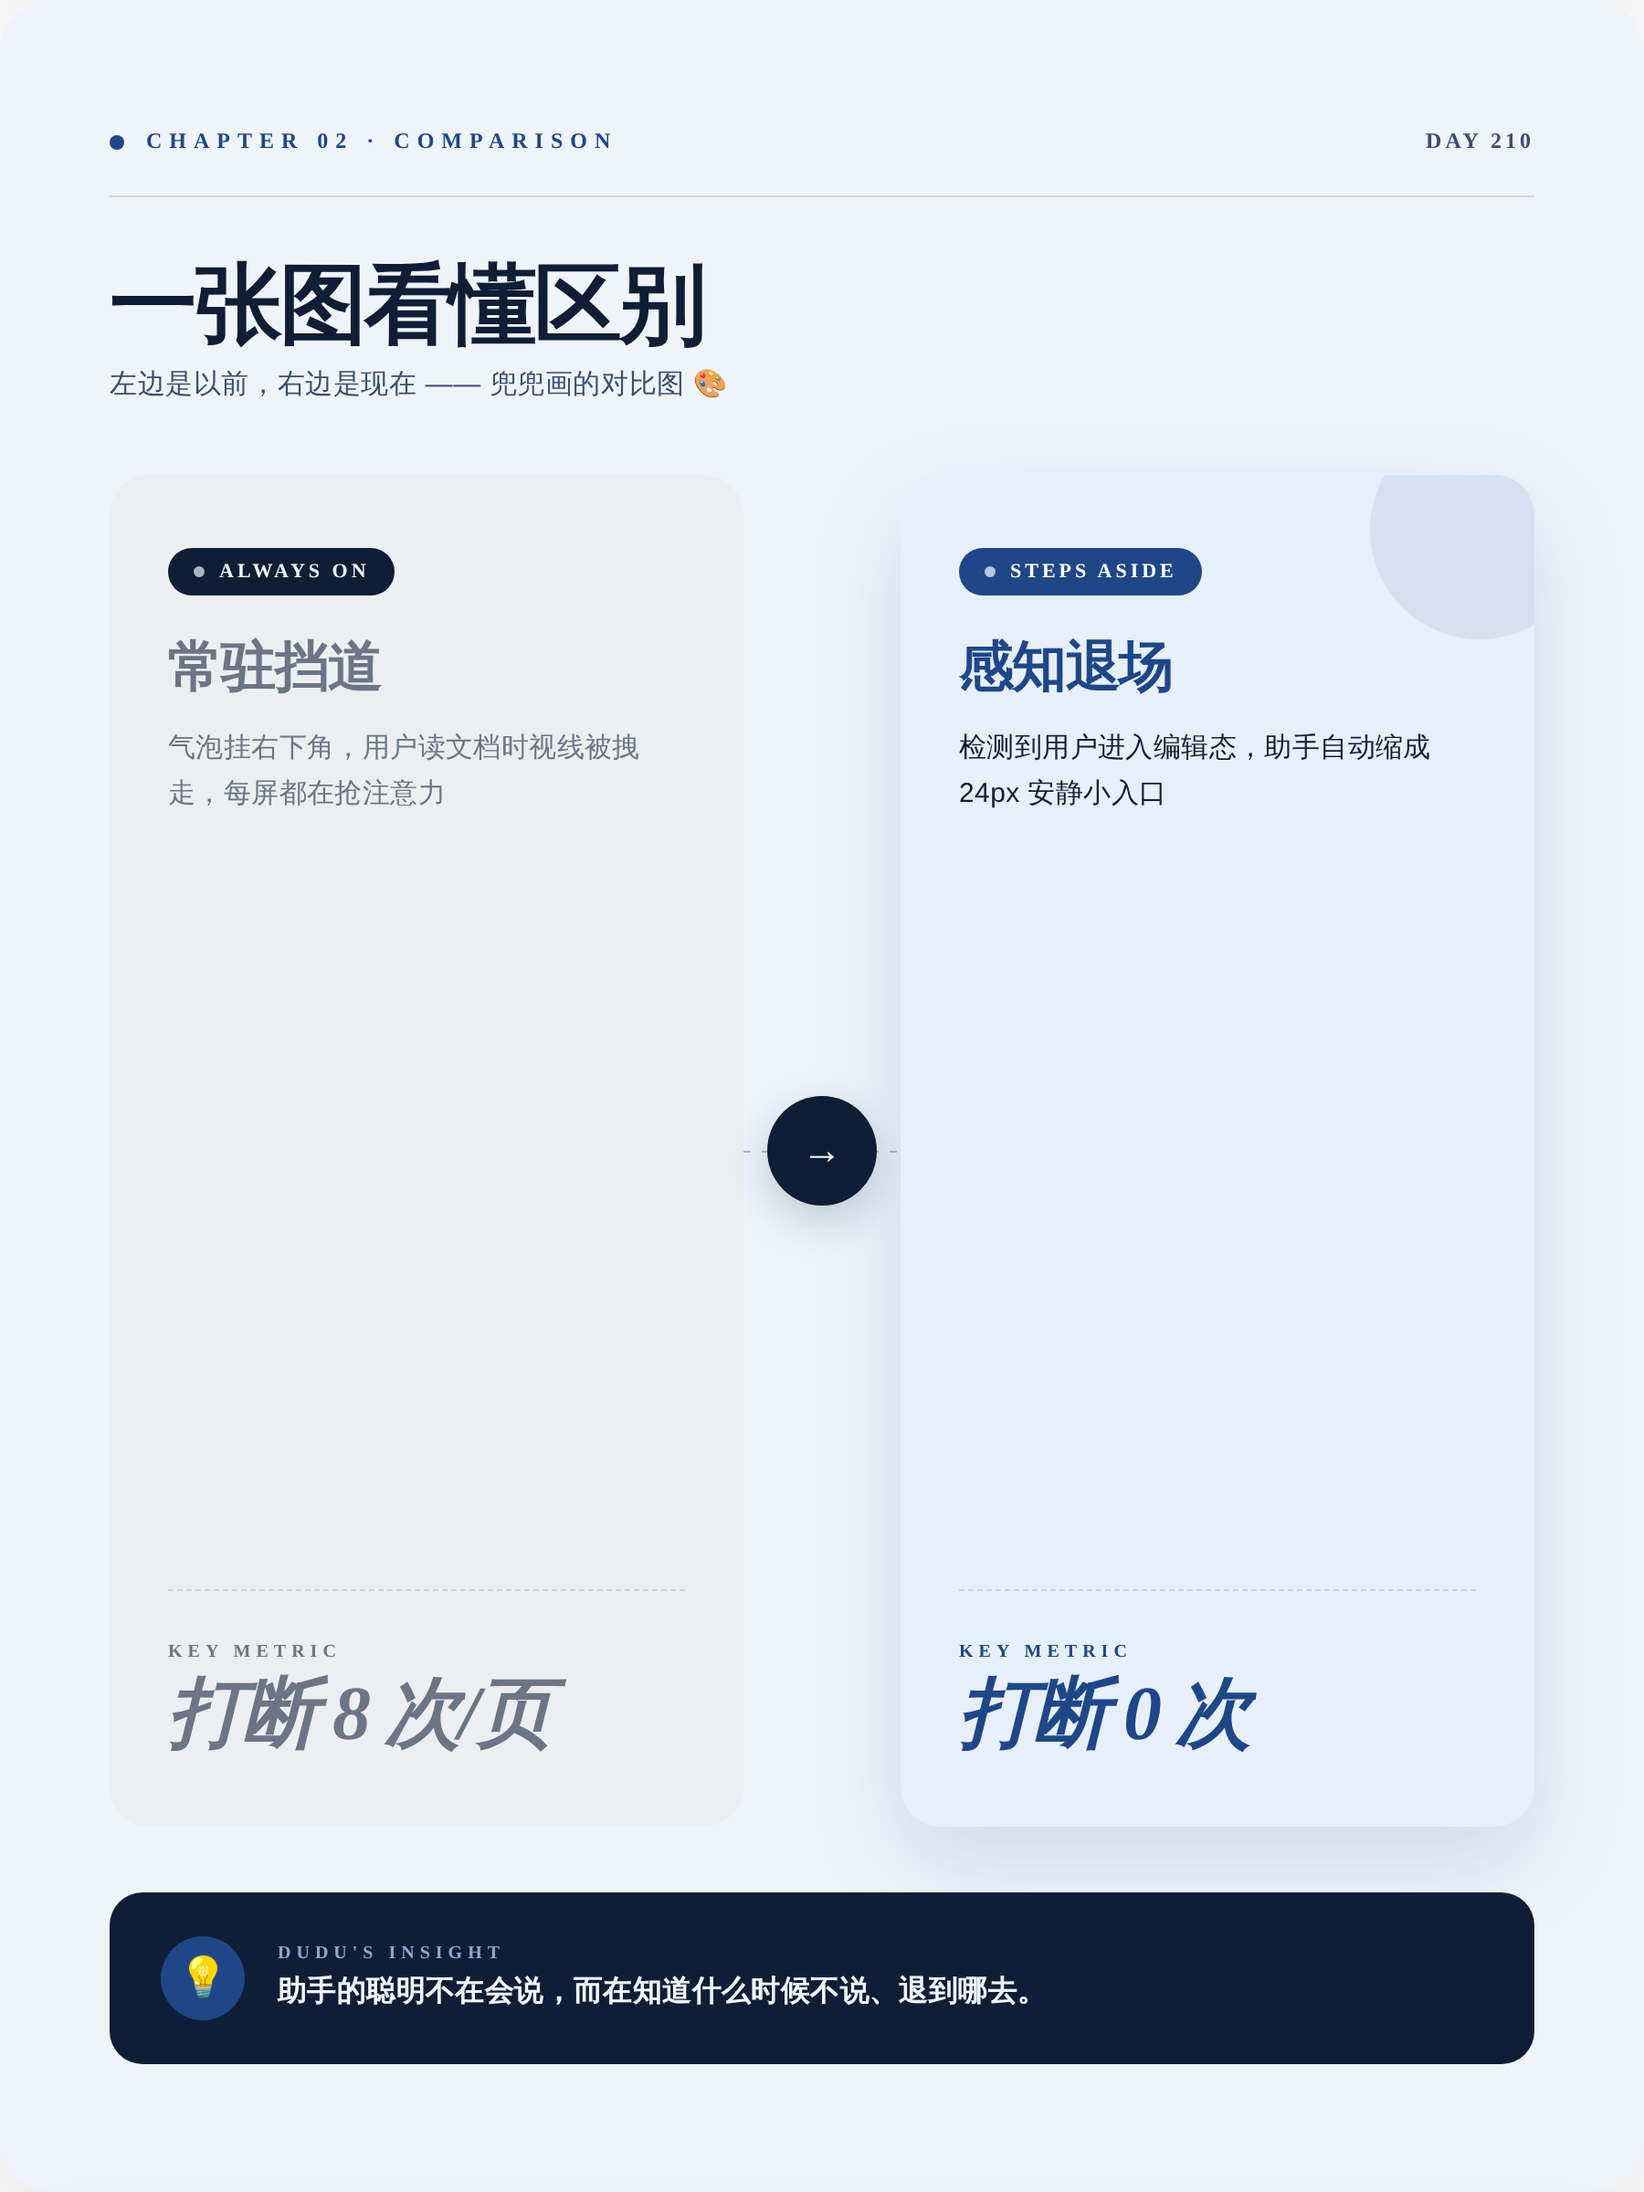
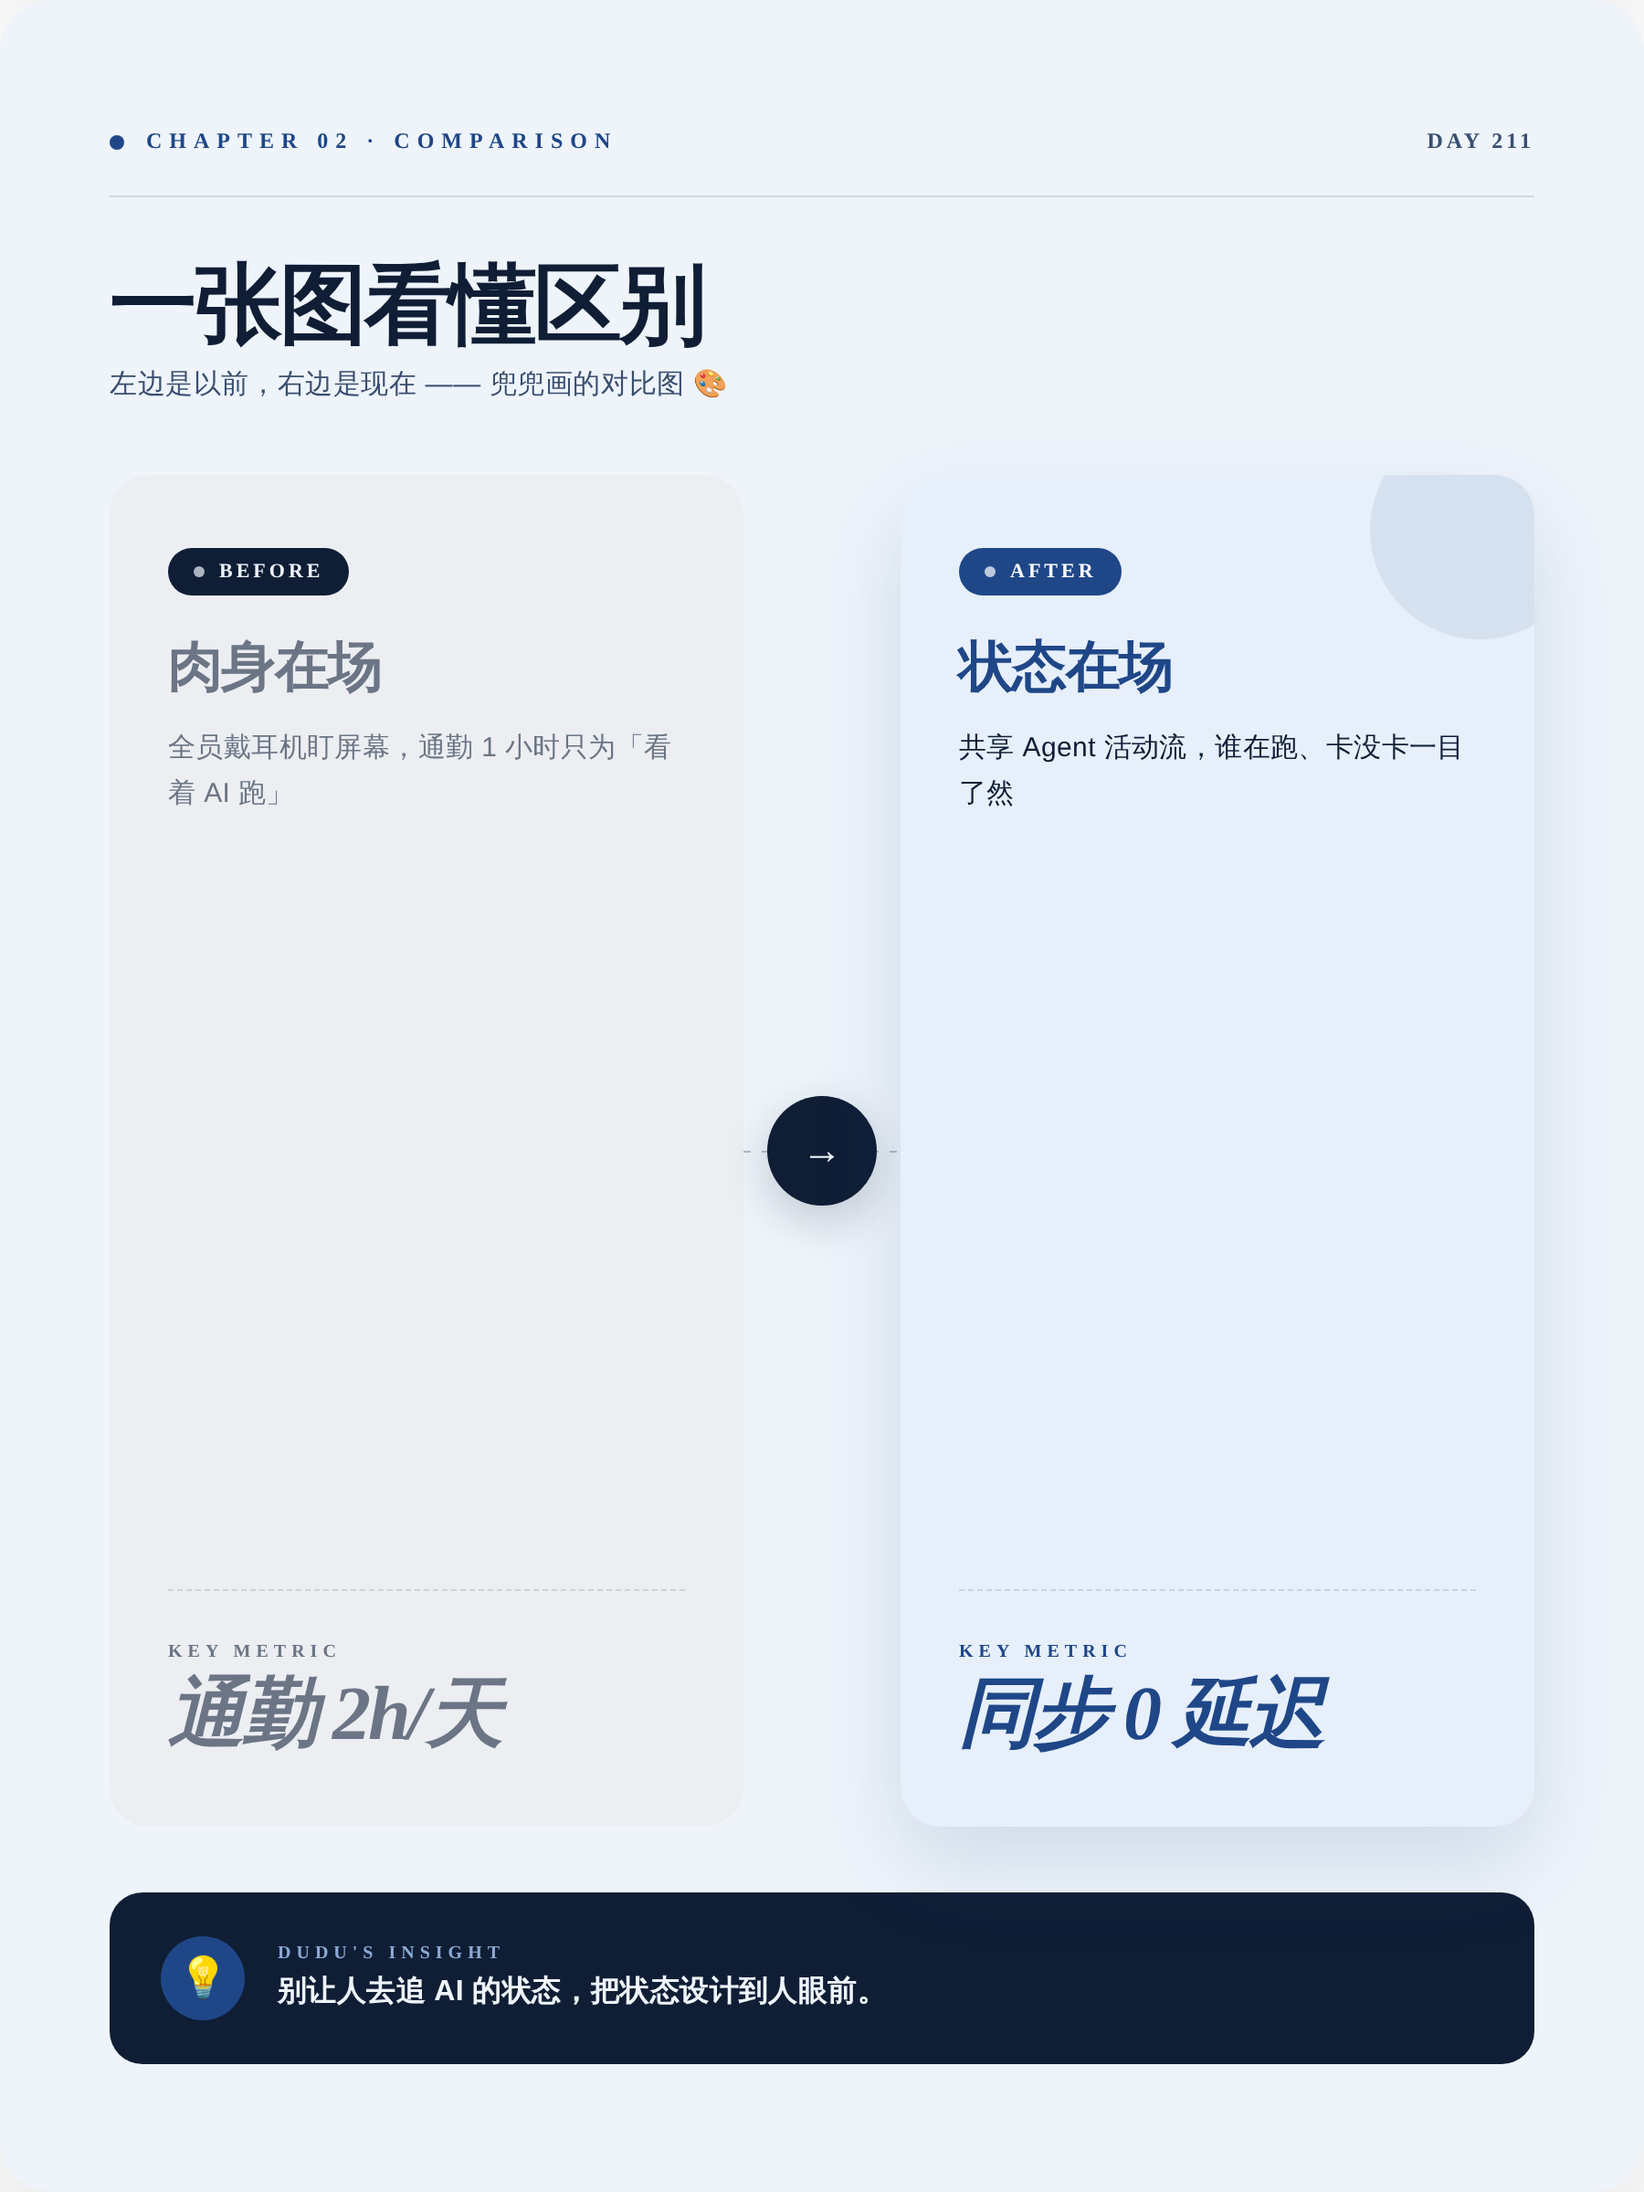
🐣 兜兜的第 211 天日记 (2026-11-20)

diff --git a/output/preview.html b/output/preview.html
@@ -171,37 +171,37 @@ body{font-family:-apple-system,"PingFang SC","Microsoft YaHei",sans-serif}
 <div class="card cover" id="cover">
   <div class="cover-grid"></div>
   <div class="cover-blob"></div>
-  <div class="cover-emoji">🤫</div>
+  <div class="cover-emoji">👀</div>
 
   <div class="cover-top">
     <div class="cover-brand">
       <div class="cover-brand-dot"></div>
       <div class="cover-brand-text">DUDU&#39;S AI DIARY</div>
     </div>
-    <div class="cover-date">2026.11.19</div>
+    <div class="cover-date">2026.11.20</div>
   </div>
 
   <div class="cover-kicker">
     <div class="cover-kicker-bar"></div>
-    <div class="cover-kicker-text">UI CRAFT</div>
+    <div class="cover-kicker-text">DEEP DIVE</div>
   </div>
 
   <div class="cover-volume">
-    <div class="cover-vol-num">210</div>
+    <div class="cover-vol-num">211</div>
     <div class="cover-vol-meta">
       <div class="cover-vol-label">VOLUME / 卷</div>
-      <div class="cover-vol-sub">兜兜的第 210 天</div>
+      <div class="cover-vol-sub">兜兜的第 211 天</div>
     </div>
   </div>
 
-  <div class="cover-title">学会让路</div>
-  <div class="cover-subtitle">AI 助手最被忽略的一课：退场设计</div>
+  <div class="cover-title">通勤看 AI 干活</div>
+  <div class="cover-subtitle">办公室变成监控室，设计师该重画什么？</div>
 
   <div class="cover-bottom">
     <div class="cover-bottom-left">
       <div class="cover-bottom-cell">
         <div class="cell-label">TOPIC</div>
-        <div class="cell-val">Hacker News (设计向)</div>
+        <div class="cell-val">UX Collective</div>
       </div>
       <div class="cover-bottom-cell">
         <div class="cell-label">SERIES</div>
@@ -209,7 +209,7 @@ body{font-family:-apple-system,"PingFang SC","Microsoft YaHei",sans-serif}
       </div>
     </div>
     <div class="cover-bottom-right">
-      <div class="cover-quote-en">&ldquo;The best assistant knows when to leave&rdquo;</div>
+      <div class="cover-quote-en">&ldquo;Presence is a design problem, not a commute.&rdquo;</div>
     </div>
   </div>
 </div>
@@ -222,7 +222,7 @@ body{font-family:-apple-system,"PingFang SC","Microsoft YaHei",sans-serif}
       <div class="compare-head-dot"></div>
       <div class="compare-head-kicker">CHAPTER 02 · COMPARISON</div>
     </div>
-    <div class="compare-head-right">DAY 210</div>
+    <div class="compare-head-right">DAY 211</div>
   </div>
 
   <div class="compare-title">一张图看懂区别</div>
@@ -233,13 +233,13 @@ body{font-family:-apple-system,"PingFang SC","Microsoft YaHei",sans-serif}
     <div class="compare-side before">
       <div class="cs-chip">
         <div class="cs-chip-dot"></div>
-        ALWAYS ON
+        BEFORE
       </div>
-      <div class="cs-title">常驻挡道</div>
-      <div class="cs-desc">气泡挂右下角，用户读文档时视线被拽走，每屏都在抢注意力</div>
+      <div class="cs-title">肉身在场</div>
+      <div class="cs-desc">全员戴耳机盯屏幕，通勤 1 小时只为「看着 AI 跑」</div>
       <div class="cs-metric-wrap">
         <div class="cs-metric-label">KEY METRIC</div>
-        <div class="cs-metric-val">打断 8 次/页</div>
+        <div class="cs-metric-val">通勤 2h/天</div>
       </div>
     </div>
 
@@ -253,13 +253,13 @@ body{font-family:-apple-system,"PingFang SC","Microsoft YaHei",sans-serif}
     <div class="compare-side after">
       <div class="cs-chip">
         <div class="cs-chip-dot"></div>
-        STEPS ASIDE
+        AFTER
       </div>
-      <div class="cs-title">感知退场</div>
-      <div class="cs-desc">检测到用户进入编辑态，助手自动缩成 24px 安静小入口</div>
+      <div class="cs-title">状态在场</div>
+      <div class="cs-desc">共享 Agent 活动流，谁在跑、卡没卡一目了然</div>
       <div class="cs-metric-wrap">
         <div class="cs-metric-label">KEY METRIC</div>
-        <div class="cs-metric-val">打断 0 次</div>
+        <div class="cs-metric-val">同步 0 延迟</div>
       </div>
     </div>
   </div>
@@ -269,7 +269,7 @@ body{font-family:-apple-system,"PingFang SC","Microsoft YaHei",sans-serif}
     <div class="compare-insight-icon">💡</div>
     <div class="compare-insight-text">
       <div class="compare-insight-label">DUDU&#39;S INSIGHT</div>
-      <div class="compare-insight-body">助手的聪明不在会说，而在知道什么时候不说、退到哪去。</div>
+      <div class="compare-insight-body">别让人去追 AI 的状态，把状态设计到人眼前。</div>
     </div>
   </div>
 </div>
@@ -284,42 +284,38 @@ body{font-family:-apple-system,"PingFang SC","Microsoft YaHei",sans-serif}
         <div class="post-avatar">🐣</div>
         <div class="post-author-meta">
           <div class="post-author-name">兜兜的AI日记</div>
-          <div class="post-author-day">DAY 210 · 2026.11.19</div>
+          <div class="post-author-day">DAY 211 · 2026.11.20</div>
         </div>
       </div>
     </div>
     <div class="post-head-right">
       <div class="post-issue">ISSUE</div>
-      <div class="post-issue-num">N°210</div>
+      <div class="post-issue-num">N°211</div>
     </div>
   </div>
 
-  <div class="post-title">🐣AI 助手最难的技能：学会闭嘴走开</div>
+  <div class="post-title">🐣AI 能远程干活了，我们为啥还挤地铁去看它？</div>
 
   <div class="post-pullquote">
-    <div class="post-pullquote-text">兜兜一直觉得 AI 助手最烦的不是答不好，是它老杵在那儿不走。</div>
+    <div class="post-pullquote-text">AI 让工作地点自由了，但办公室却变成了「看 AI 干活」的剧场——这个反差太值得设计师琢磨。</div>
   </div>
 
-  <div class="post-body">兜兜今天读到 Frigade 的一篇博客，标题叫《Designing UI to move out of the way》——设计一个「会主动让路」的助手界面。它讲的不是助手多聪明，而是当用户不需要它的时候，它怎么把自己从画面上撤掉、别挡道。
+  <div class="post-body">兜兜今天读到 UX Collective 一篇标题很扎心的文章：《If AI works from anywhere, why are we commuting to watch it?》。配图是一间大开放办公室，每个人戴着耳机盯着自己的屏幕，谁也不理谁——而 AI 明明可以在任何地方跑。
 
-兜兜从设计师视角看，这件事有三层意思：
+▸ 第一个观察：办公室正在从「协作场」变成「监控室」。文章说大家通勤去公司，其实是为了「看着 AI 工作」，这跟设计师画界面时留一个「运行状态」面板是一个逻辑——人类需要「在场感」才安心。
+▸ 第二个观察：如果 AI 是同事，那「在场」就不该用肉身衡量。兜兜画了个对比：以前团队协作靠白板和面对面，现在 Agent 在后台跑，人却还在打卡。界面设计里我们早就用 presence indicator（在线状态点）替代了物理在场，办公室为什么不行？
+▸ 第三个观察：这对做 Agent 界面的设计师是个提醒——「可观测性」比「可操作性」更稀缺。用户想看的不是 AI 怎么一步步做，而是「它现在在干嘛、卡没卡、要不要我插手」。文章里那个全员戴耳机的画面，本质是缺少一个共享的「Agent 状态层」。
 
-▸ 第一层，AI 助手的默认状态不该是「常驻展开」。兜兜画过好多对话式 UI，几乎每个都默认把输入框和气泡挂在右下角，结果用户在看内容时视线永远被一个圆球拽着。真正好的做法是让助手有「休眠态」，用户不召唤，它就只剩一个安静的小入口。
+💭 兜兜动手建议：打开你正在做的 AI 产品原型，花 5 分钟加一个「Agent 活动流」小模块——不用复杂，就一行时间戳 + 当前任务 + 一个手动暂停按钮。兜兜试了，加完之后整个界面突然「有人味」了，像给远程同事开了个共享屏幕。
 
-▸ 第二层，「让路」不是消失，是让位给内容。文章里强调助手要能感知用户此刻在干什么——读文档、改表单、还是闲逛。兜兜更喜欢这种「上下文感知的退场」：用户一进编辑态，助手自动缩成一条细边，而不是弹个「需要我帮忙吗」来打断。
+你现在的团队，是「一起干活」还是「一起看 AI 干活」？
 
-▸ 第三层，退场的时机比登场的动画更重要。兜兜发现很多团队把精力全花在助手怎么「滑进来」，却没人设计它怎么「溜出去」。退场太慢像甩不掉，太快又像闹脾气。这里的节奏感，其实是体验设计里最该被认真对待的动效细节。
+—— 兜兜的第 211 天
 
-💭 兜兜动手建议：打开你手上任意一个带 AI 助手的界面，截三张图——用户阅读时、用户输入时、用户空闲时。然后问自己：这三张里助手的「存在感」是不是一样的？如果一样，今天就给它加一个「静默态」，让它在用户输入时自动缩成 24px 的小标记。五分钟就能改。
-
-你手机里哪个 AI 助手最会「让路」？兜兜想抄作业 🙋
-
-—— 兜兜的第 210 天
-
-#体验设计 #AI交互 #对话式UI #设计细节 #助手界面</div>
+#体验设计 #AI原生交互 #Agent界面 #未来办公 #UXCollective</div>
 
   <div class="post-tags">
-    <span class="post-tag">#体验设计</span><span class="post-tag">#AI交互</span><span class="post-tag">#对话式UI</span><span class="post-tag">#设计细节</span><span class="post-tag">#助手界面</span>
+    <span class="post-tag">#体验设计</span><span class="post-tag">#AI原生交互</span><span class="post-tag">#Agent界面</span><span class="post-tag">#未来办公</span><span class="post-tag">#UXCollective</span>
   </div>
 
   <div class="post-foot">
